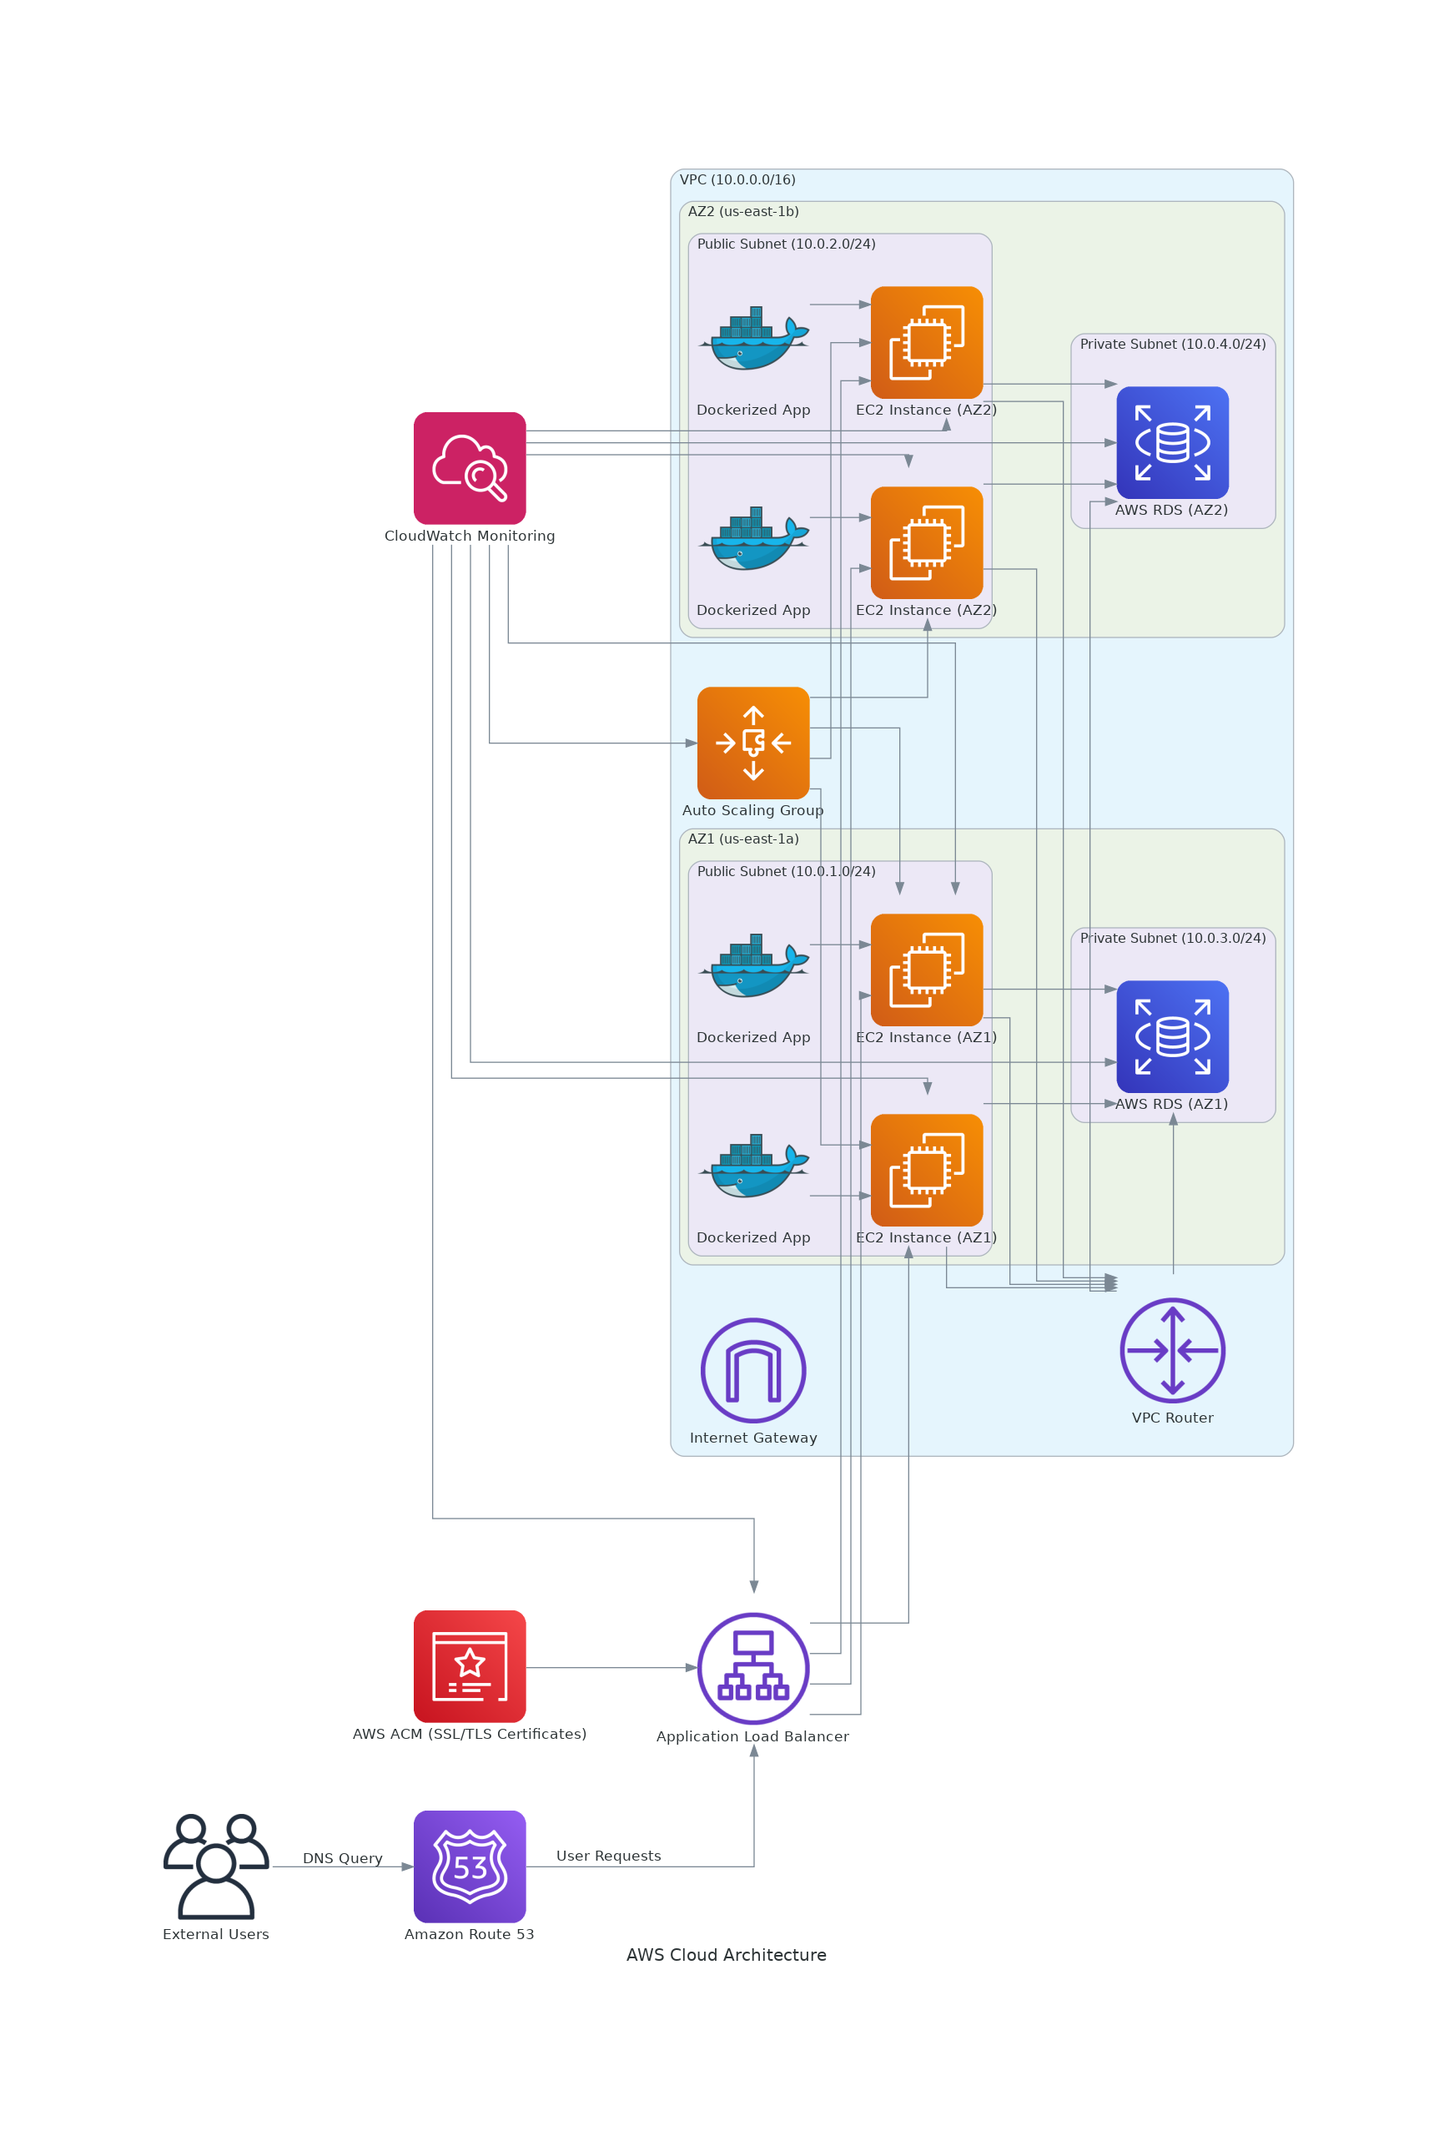
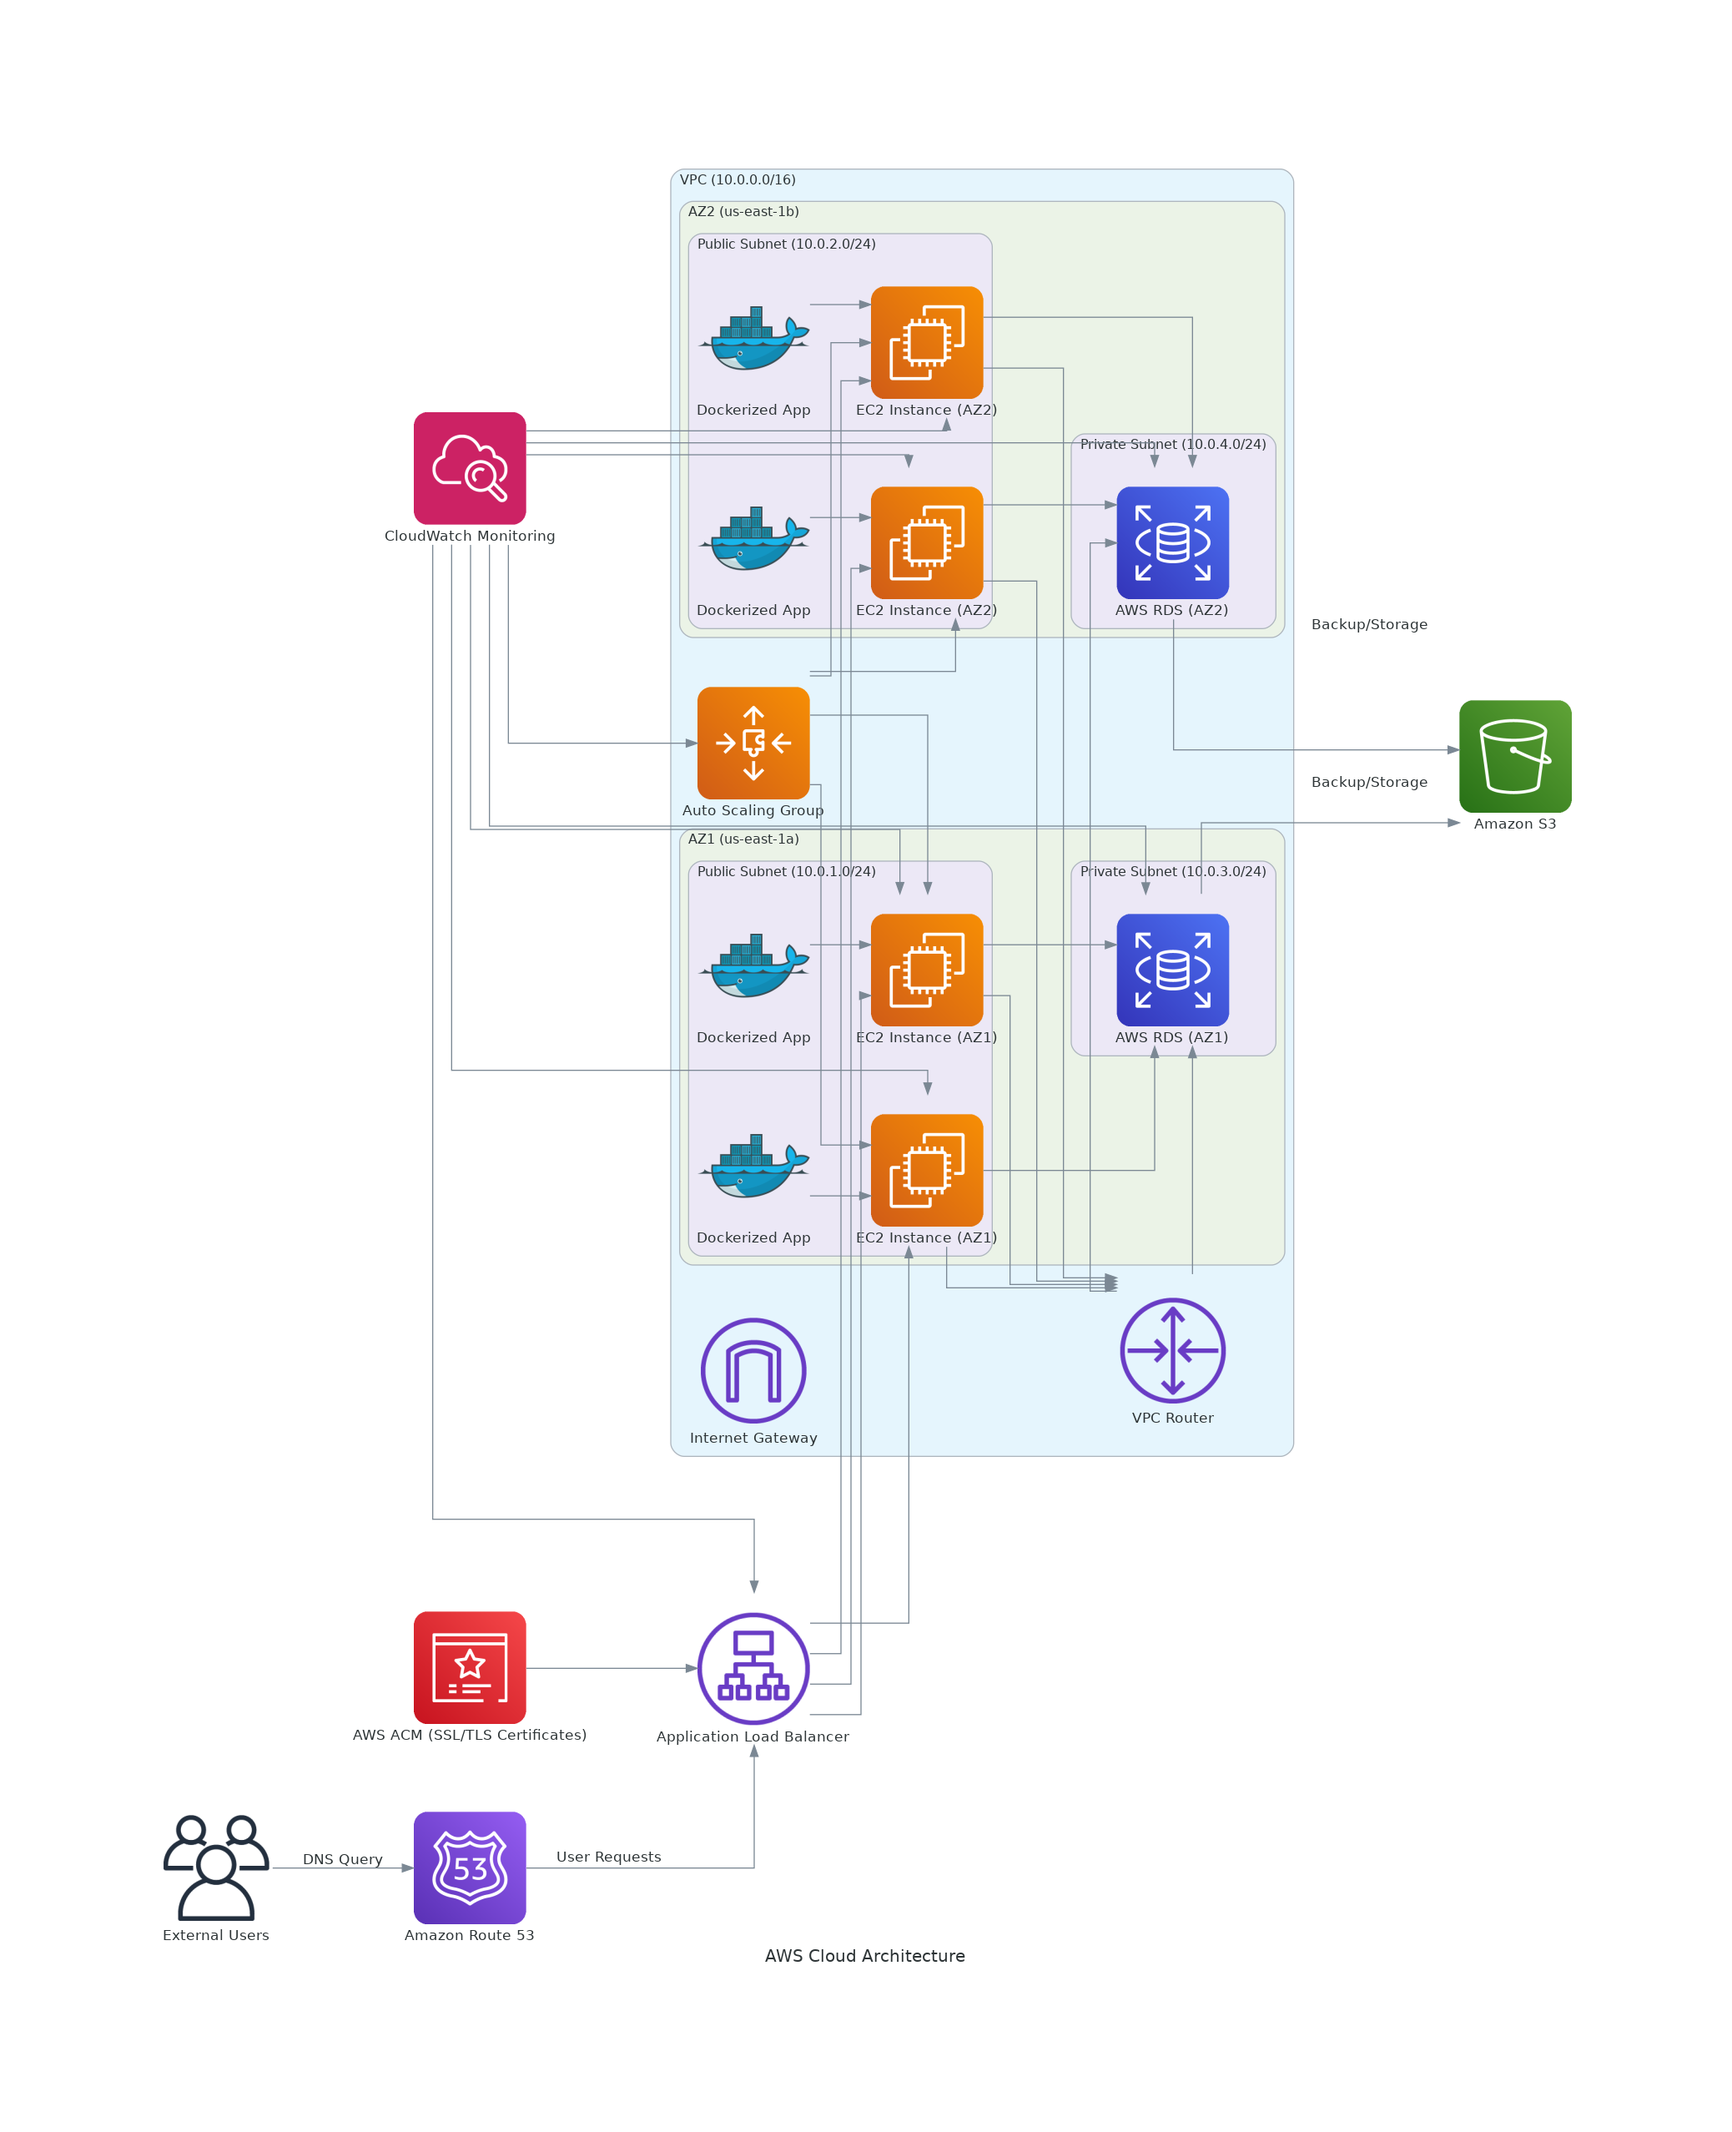
update

Changed region(s): [[0.2169, 0.0619, 0.9294, 0.8352], [0.0929, 0.7424, 0.3718, 0.928], [0.4337, 0.897, 0.4957, 0.928]]

diff --git a/milestone1/main.py b/milestone1/main.py
@@ -3,6 +3,7 @@ from diagrams.aws.network import VPC, InternetGateway, ALB, Route53, VPCRouter
 from diagrams.aws.compute import EC2, AutoScaling
 from diagrams.aws.database import RDS
 from diagrams.aws.management import Cloudwatch
+from diagrams.aws.storage import S3  # Importing S3 icon
 from diagrams.onprem.client import Users
 from diagrams.aws.security import ACM
 from diagrams.onprem.container import Docker  # Importing Docker icon
@@ -78,3 +79,8 @@ with Diagram("AWS Cloud Architecture", show=False, graph_attr=graph_attrs):
 
     # Connect ACM to ALB for SSL/TLS security
     acm >> Edge() >> alb
+
+    # Amazon S3 bucket for data storage, linked to RDS
+    s3 = S3("Amazon S3")
+    rds_1 >> Edge(label="Backup/Storage") >> s3
+    rds_2 >> Edge(label="Backup/Storage") >> s3
